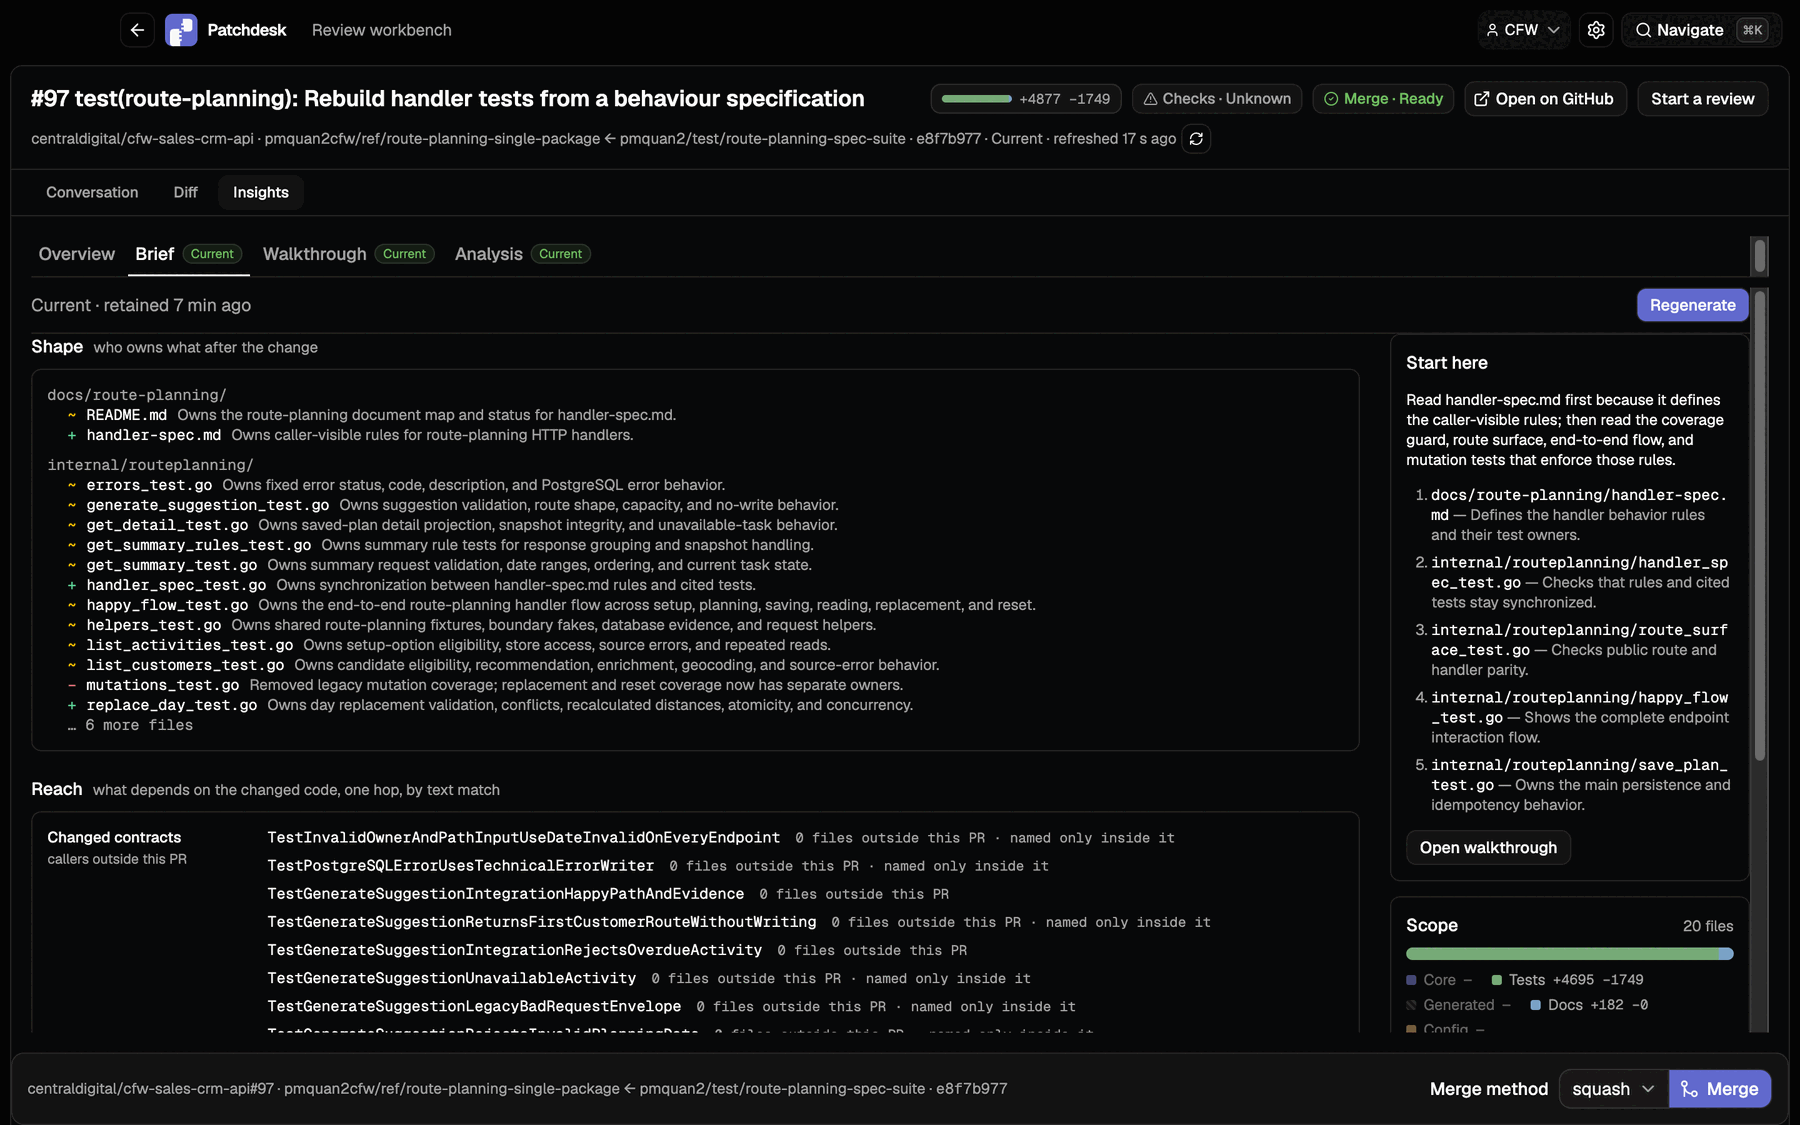
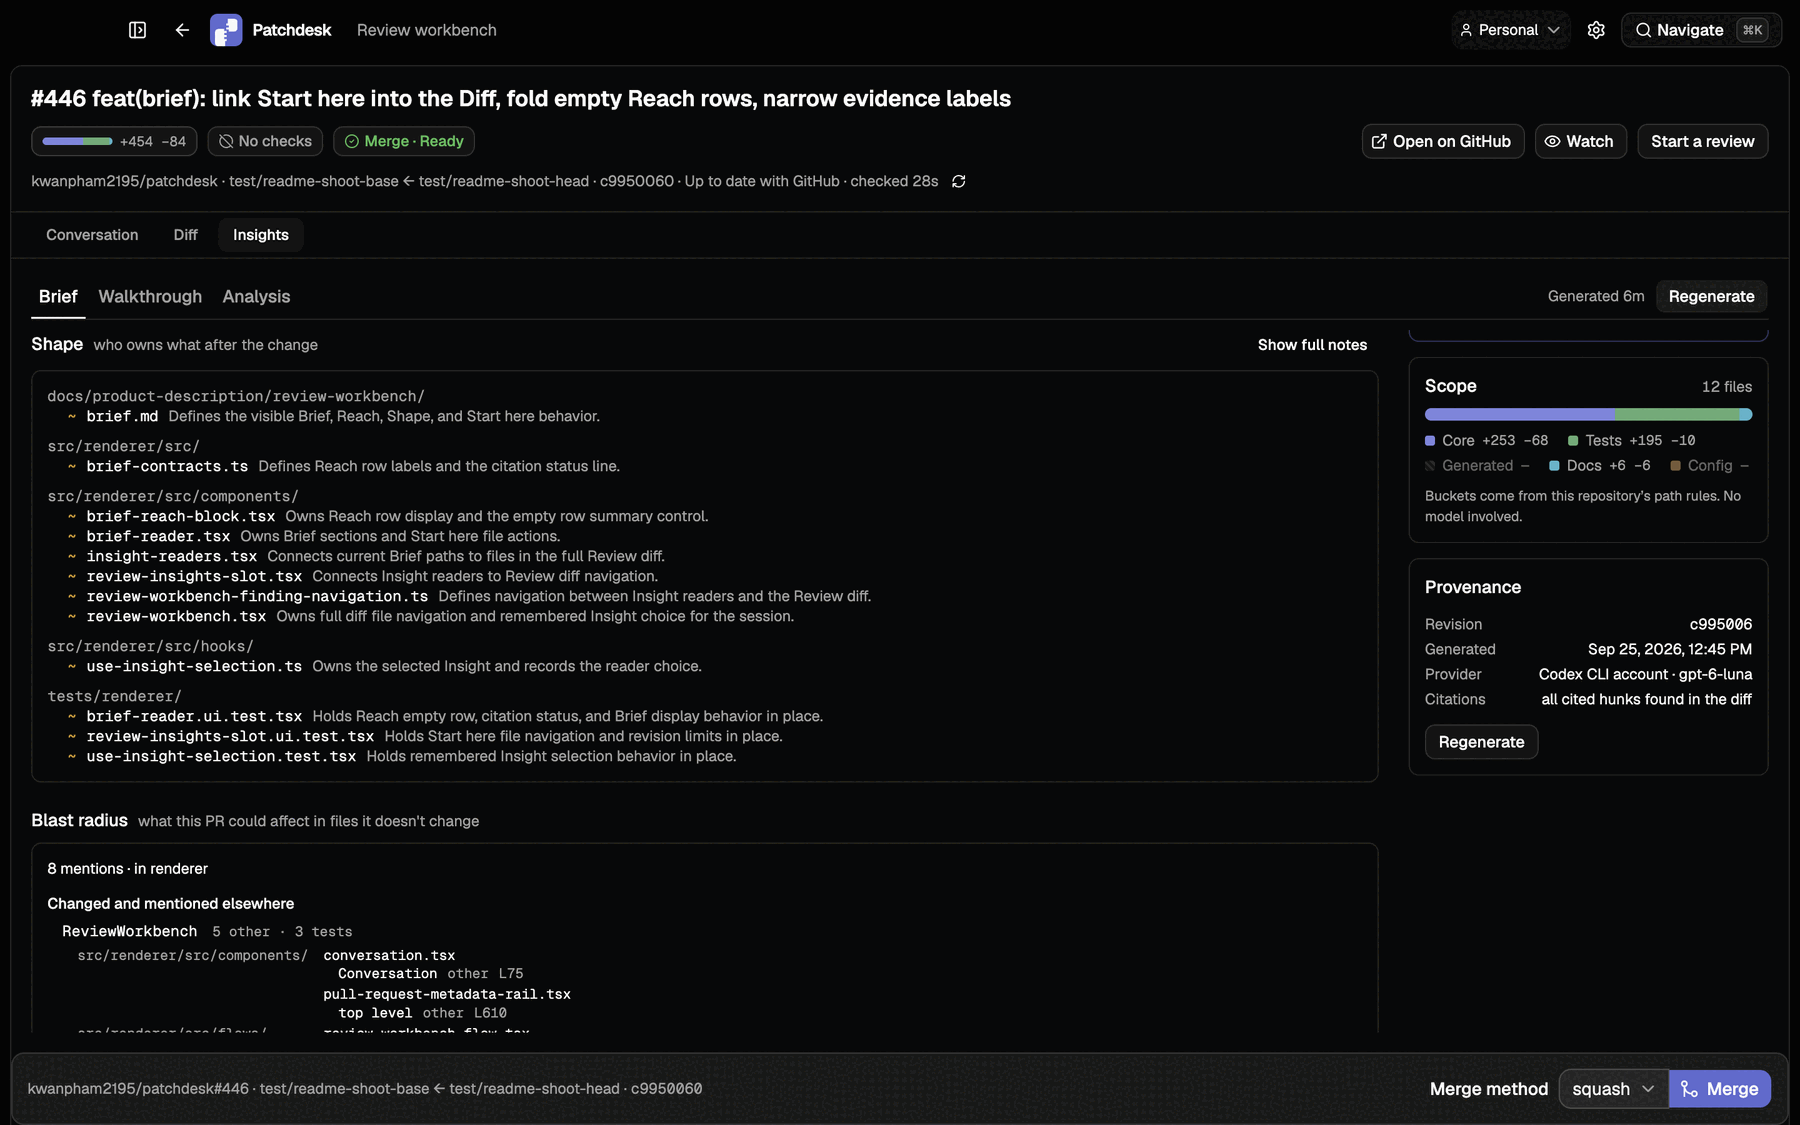
docs(readme): re-shoot the Insights tour with state and contract Flow, blast radius, and the Language control

diff --git a/README.md b/README.md
@@ -35,10 +35,11 @@ all three with the provider, model, and reasoning level you choose.
 
 ### Brief finds the reading path
 
-Brief maps the shape and reach of a pull request, explains what each changed
-area owns, and recommends where to start reading.
+Brief maps the shape of a pull request, explains what each changed area owns,
+shows what it could affect in files it doesn't change, and links each
+recommended file straight into the Diff.
 
-![Patchdesk Brief mapping the shape and reach of a pull request](docs/assets/insight-brief.png)
+![Patchdesk Brief showing the shape and blast radius of a pull request](docs/assets/insight-brief.png)
 
 ### Walkthrough explains the implementation
 
@@ -66,7 +67,7 @@ Each Insight stays attached to the pull-request revision it analyzed. Brief,
 Walkthrough, and Analysis remain separate results, ready to revisit throughout
 the review.
 
-![Choosing a provider, model, and reasoning level for an Insight](docs/assets/insight-run-dialog.png)
+![Choosing a provider, model, reasoning level, and language for an Insight](docs/assets/insight-run-dialog.png)
 
 ## Review the whole pull request in one place
 
